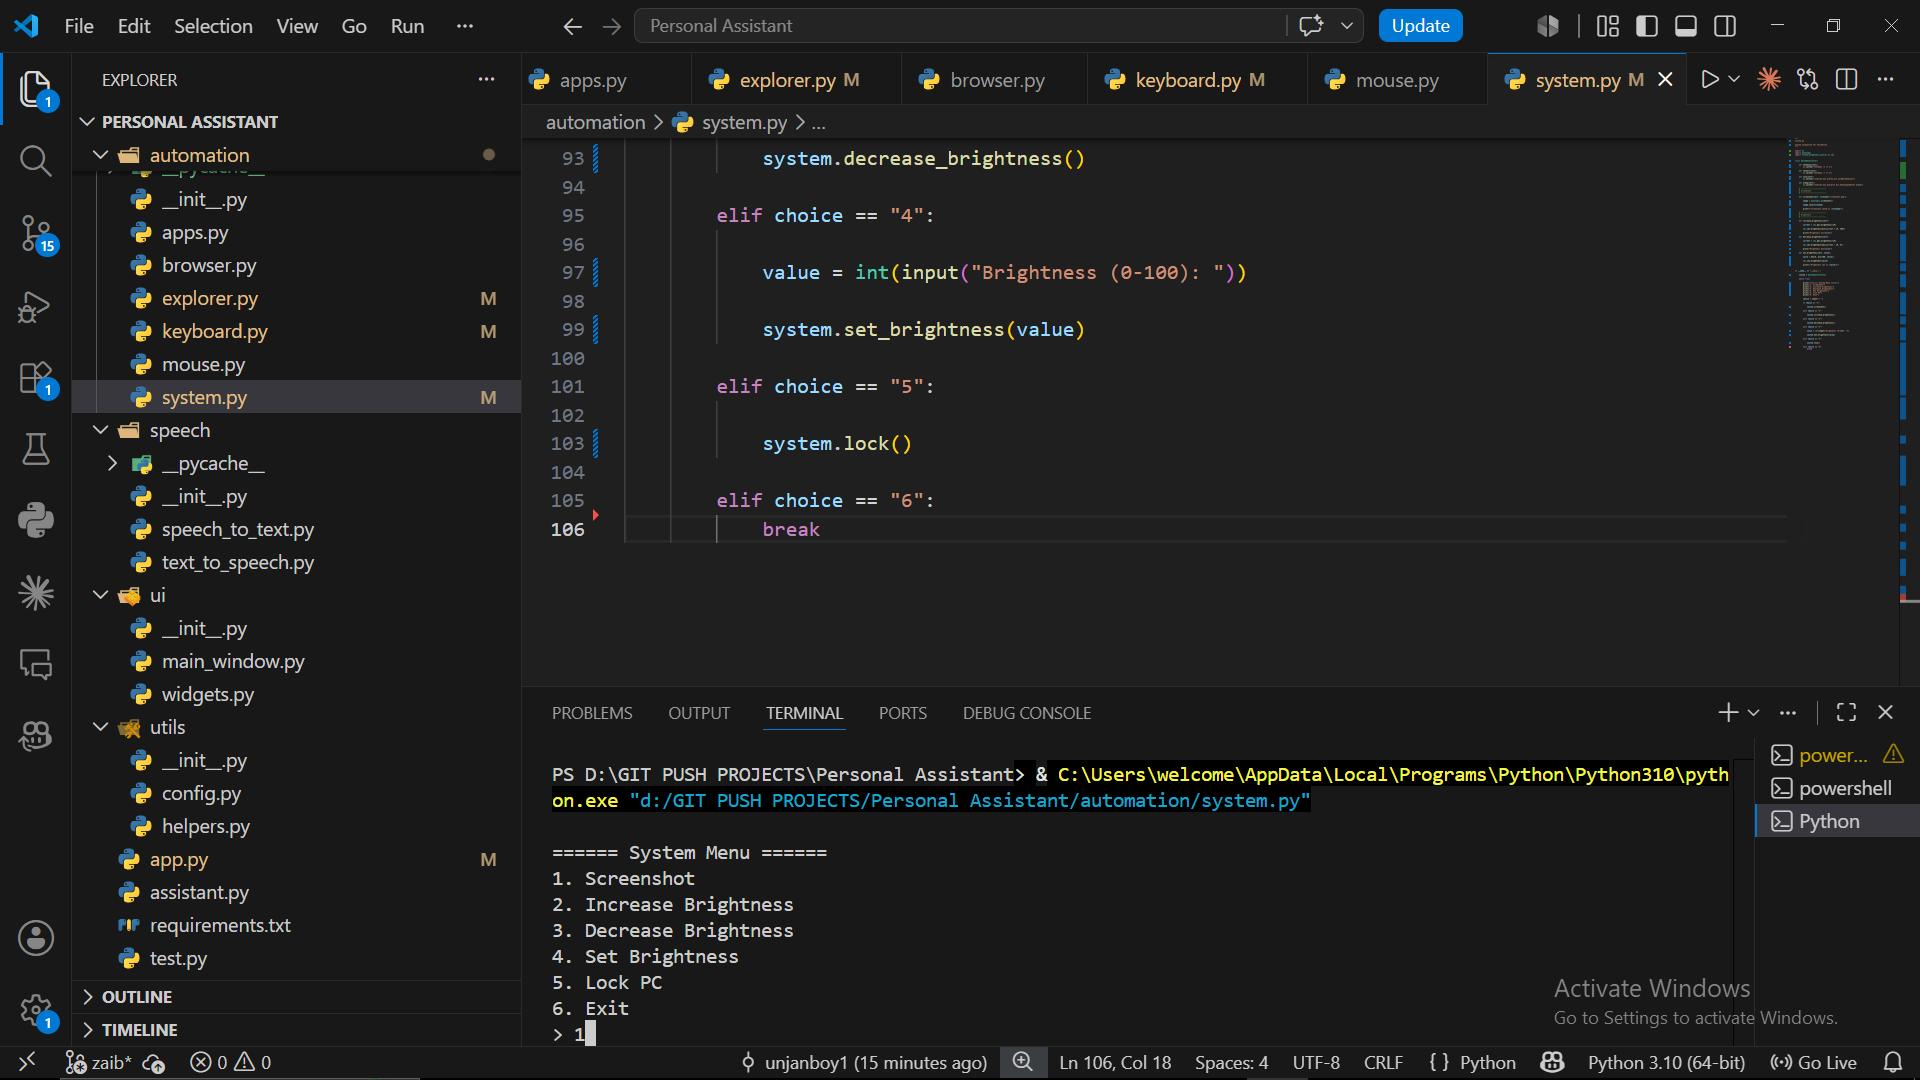
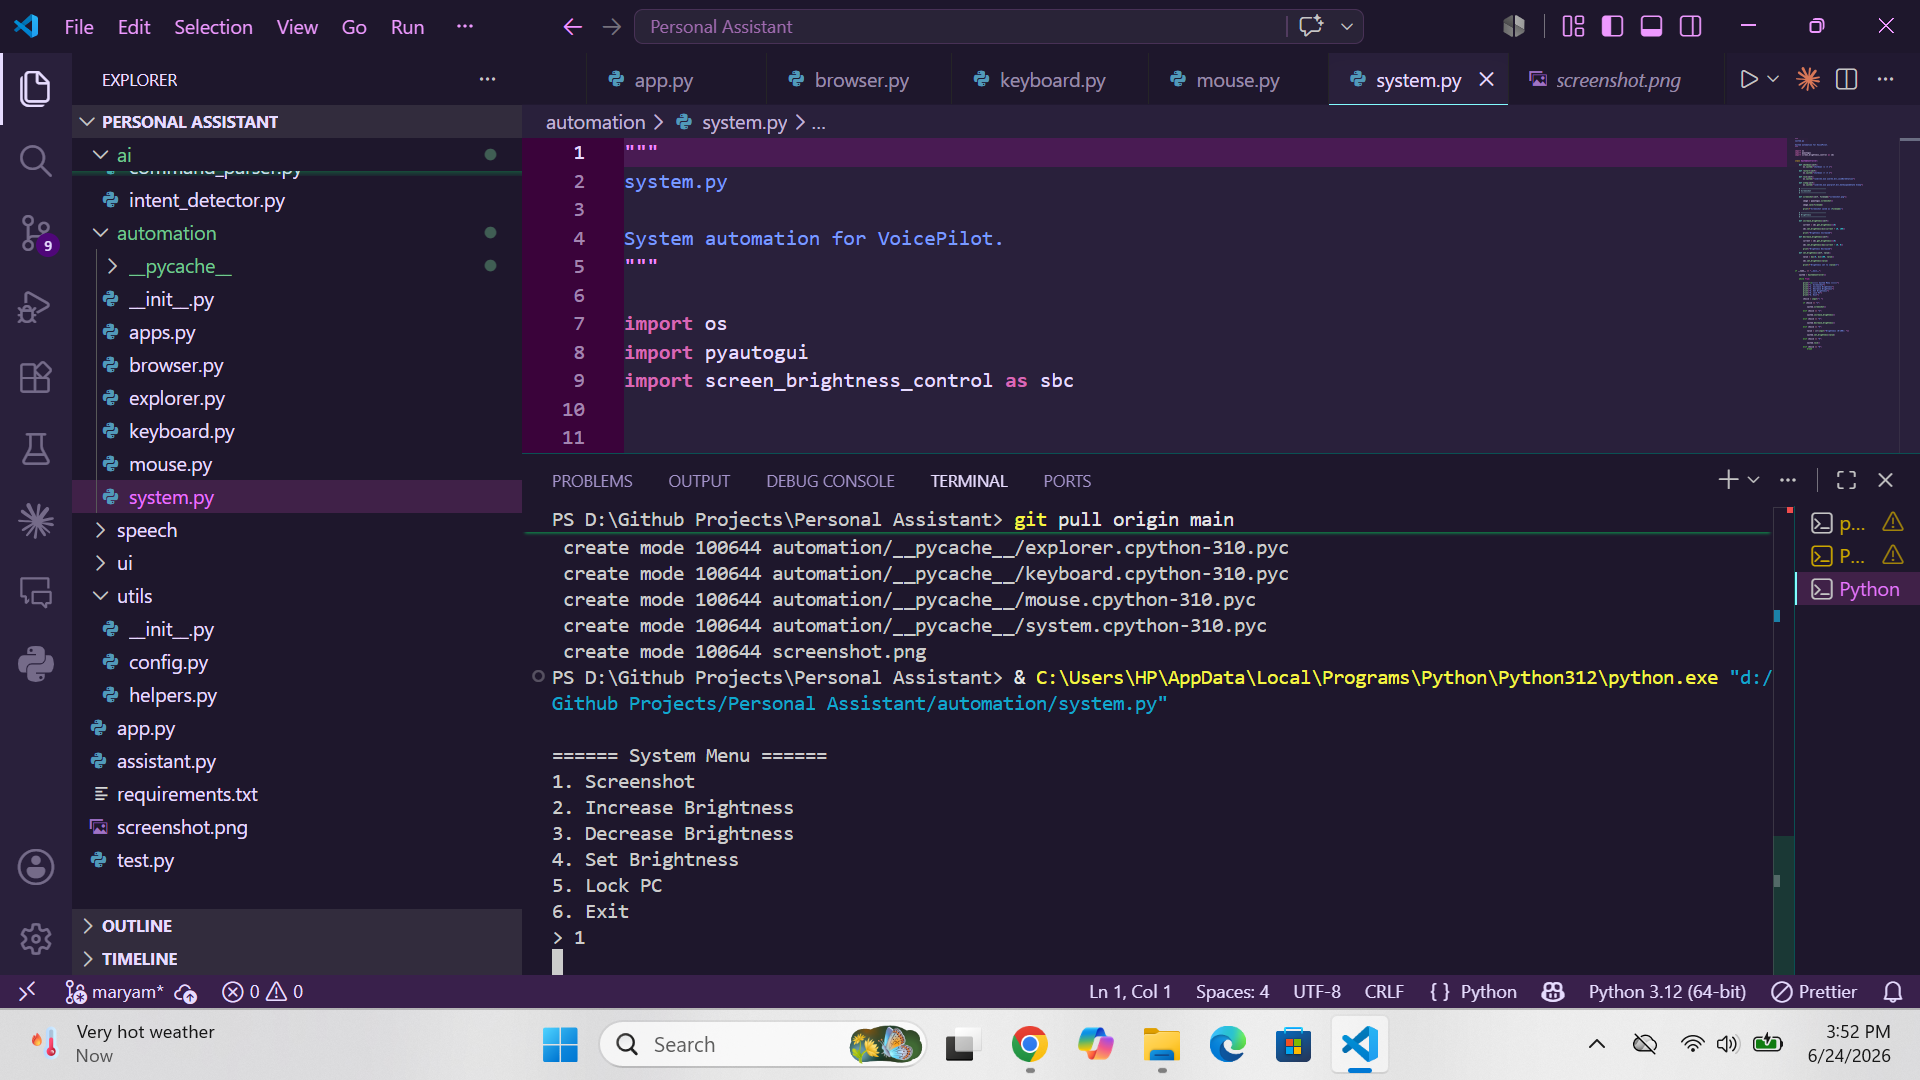
chnges

diff --git a/assistant.py b/assistant.py
@@ -20,12 +20,14 @@ from automation.system import SystemController
 class VoiceAssistant:
 
     def __init__(self, callback=None):
-
+        # Hardware interfaces
         self.listener = SpeechToText()
         self.speaker = TextToSpeech()
 
+        # NLP Command Parser
         self.parser = CommandParser()
 
+        # Automation Subsystems
         self.apps = AppController()
         self.browser = BrowserController()
         self.explorer = ExplorerController()
@@ -33,79 +35,123 @@ class VoiceAssistant:
         self.mouse = MouseController()
         self.system = SystemController()
 
-        # GUI callback
+        # GUI callback hook
         self.callback = callback
 
-    # ------------------------------
-
+    # -------------------------------------------------------------------------
     def update(self, message):
-
+        """Prints to terminal and updates the Tkinter UI logs."""
         print(message)
-
         if self.callback:
             self.callback(message)
 
-    # ------------------------------
-
+    # -------------------------------------------------------------------------
     def execute(self, command):
+        """Processes the command, checks the intent, and triggers automation."""
+        # Clean up input string
+        command_clean = command.lower().strip()
+        
+        # 0. Quick Global Overrides (Optional bypass for simple logic)
+        if command_clean in ["hello", "hi", "hey"]:
+            self.update("Hello! How can I help you today?")
+            self.speaker.speak("Hello! How can I help you today?")
+            return
 
+        # Fetch intent data from our Command Parser
         data = self.parser.parse(command)
-
-        intent = data["intent"]
+        intent = data.get("intent")
 
         self.update(f"Command : {command}")
 
+        # 1. APPLICATION AUTOMATION
         if intent == "OPEN_APP":
-
-            target = data["target"]
-
+            target = data.get("target")
             if target:
-
-                self.update(f"Opening {target}")
-
+                self.update(f"Opening {target}...")
                 self.speaker.speak(f"Opening {target}")
-
                 self.apps.open_app(target)
 
+        elif intent == "CLOSE_APP":
+            target = data.get("target")
+            if target:
+                self.update(f"Closing {target}...")
+                self.speaker.speak(f"Closing {target}")
+                # Make sure your AppController has a close_app method!
+                self.apps.close_app(target)
+
+        # 2. BROWSER AUTOMATION
         elif intent == "SEARCH_WEB":
-
-            query = data["query"]
-
+            query = data.get("query")
             if query:
-
-                self.update(f"Searching Google : {query}")
-
+                self.update(f"Searching Google for: {query}")
                 self.speaker.speak(f"Searching {query}")
-
                 self.browser.search_google(query)
 
+        # 3. FILE EXPLORER AUTOMATION
+        elif intent == "OPEN_FOLDER":
+            path = data.get("path")
+            if path:
+                self.update(f"Opening directory: {path}")
+                self.explorer.open_folder(path)
+
+        # 4. OS / HARDWARE SYSTEM CONTROLS
+        elif intent == "VOLUME_UP":
+            self.update("Increasing volume.")
+            self.system.increase_volume()
+
+        elif intent == "VOLUME_DOWN":
+            self.update("Decreasing volume.")
+            self.system.decrease_volume()
+
+        elif intent == "MUTE_SYSTEM":
+            self.update("Toggling system mute.")
+            self.system.mute()
+
+        elif intent == "SYSTEM_SHUTDOWN":
+            self.update("Initiating system shutdown.")
+            self.speaker.speak("Shutting down the system. Goodbye.")
+            self.system.shutdown()
+
+        # 5. KEYBOARD / MOUSE AUTOMATION (MACROS)
+        elif intent == "PRESS_KEY":
+            key = data.get("key")
+            if key:
+                self.keyboard.press(key)
+
+        elif intent == "CLICK_MOUSE":
+            x, y = data.get("x"), data.get("y")
+            if x is not None and y is not None:
+                self.mouse.click(x, y)
+
+        # 6. STANDALONE CHAT INTENTS
+        elif intent == "GREETING":
+            reply = "Hello! I am ready to assist you."
+            self.update(reply)
+            self.speaker.speak(reply)
+
+        # FALLBACK ENGINE
         else:
-
             self.update("Unknown Command")
+            self.speaker.speak("Sorry, I did not understand.")
 
-            self.speaker.speak(
-                "Sorry, I did not understand."
-            )
-
-    # ------------------------------
-
+    # -------------------------------------------------------------------------
     def start(self):
-
+        """Starts the core listener loop (Runs inside a background worker thread)."""
         self.speaker.speak("VoicePilot Started")
 
         while True:
-
             self.update("Listening...")
-
             command = self.listener.listen()
 
-            if command == "":
+            # Ignore empty strings (e.g., ambient room noise clicks)
+            if not command or command.strip() == "":
                 continue
 
-            if command in ["exit", "quit", "stop"]:
-
+            # Check core system breakdown hooks
+            if command.lower().strip() in ["exit", "quit", "stop", "shut down"]:
+                self.update("Terminating VoicePilot session...")
                 self.speaker.speak("Goodbye")
-
                 break
 
+            # Execute valid verbal payloads
             self.execute(command)

diff --git a/ui/widgets.py b/ui/widgets.py
@@ -1,8 +1,24 @@
 """
 VoicePilot UI Package
-
 Contains:
-
 - Main Window
 - Widgets
 """
+import tkinter as tk
+from tkinter import scrolledtext
+
+class StatusLabel(tk.Label):
+    def __init__(self, parent, **kwargs):
+        super().__init__(parent, text="Ready", **kwargs)
+
+class OutputBox(scrolledtext.ScrolledText):
+    def __init__(self, parent, **kwargs):
+        # A scrollable text box for the assistant's responses
+        super().__init__(parent, wrap=tk.WORD, state=tk.DISABLED, **kwargs)
+        
+    def write(self, text):
+        """Allows the assistant to log messages here using self.output.write(text)"""
+        self.config(state=tk.NORMAL)   # Temporarily unlock the box to add text
+        self.insert(tk.END, text + "\n") # Insert the text with a new line
+        self.config(state=tk.DISABLED) # Lock it back up so the user can't edit it
+        self.see(tk.END)               # Auto-scroll to the bottom